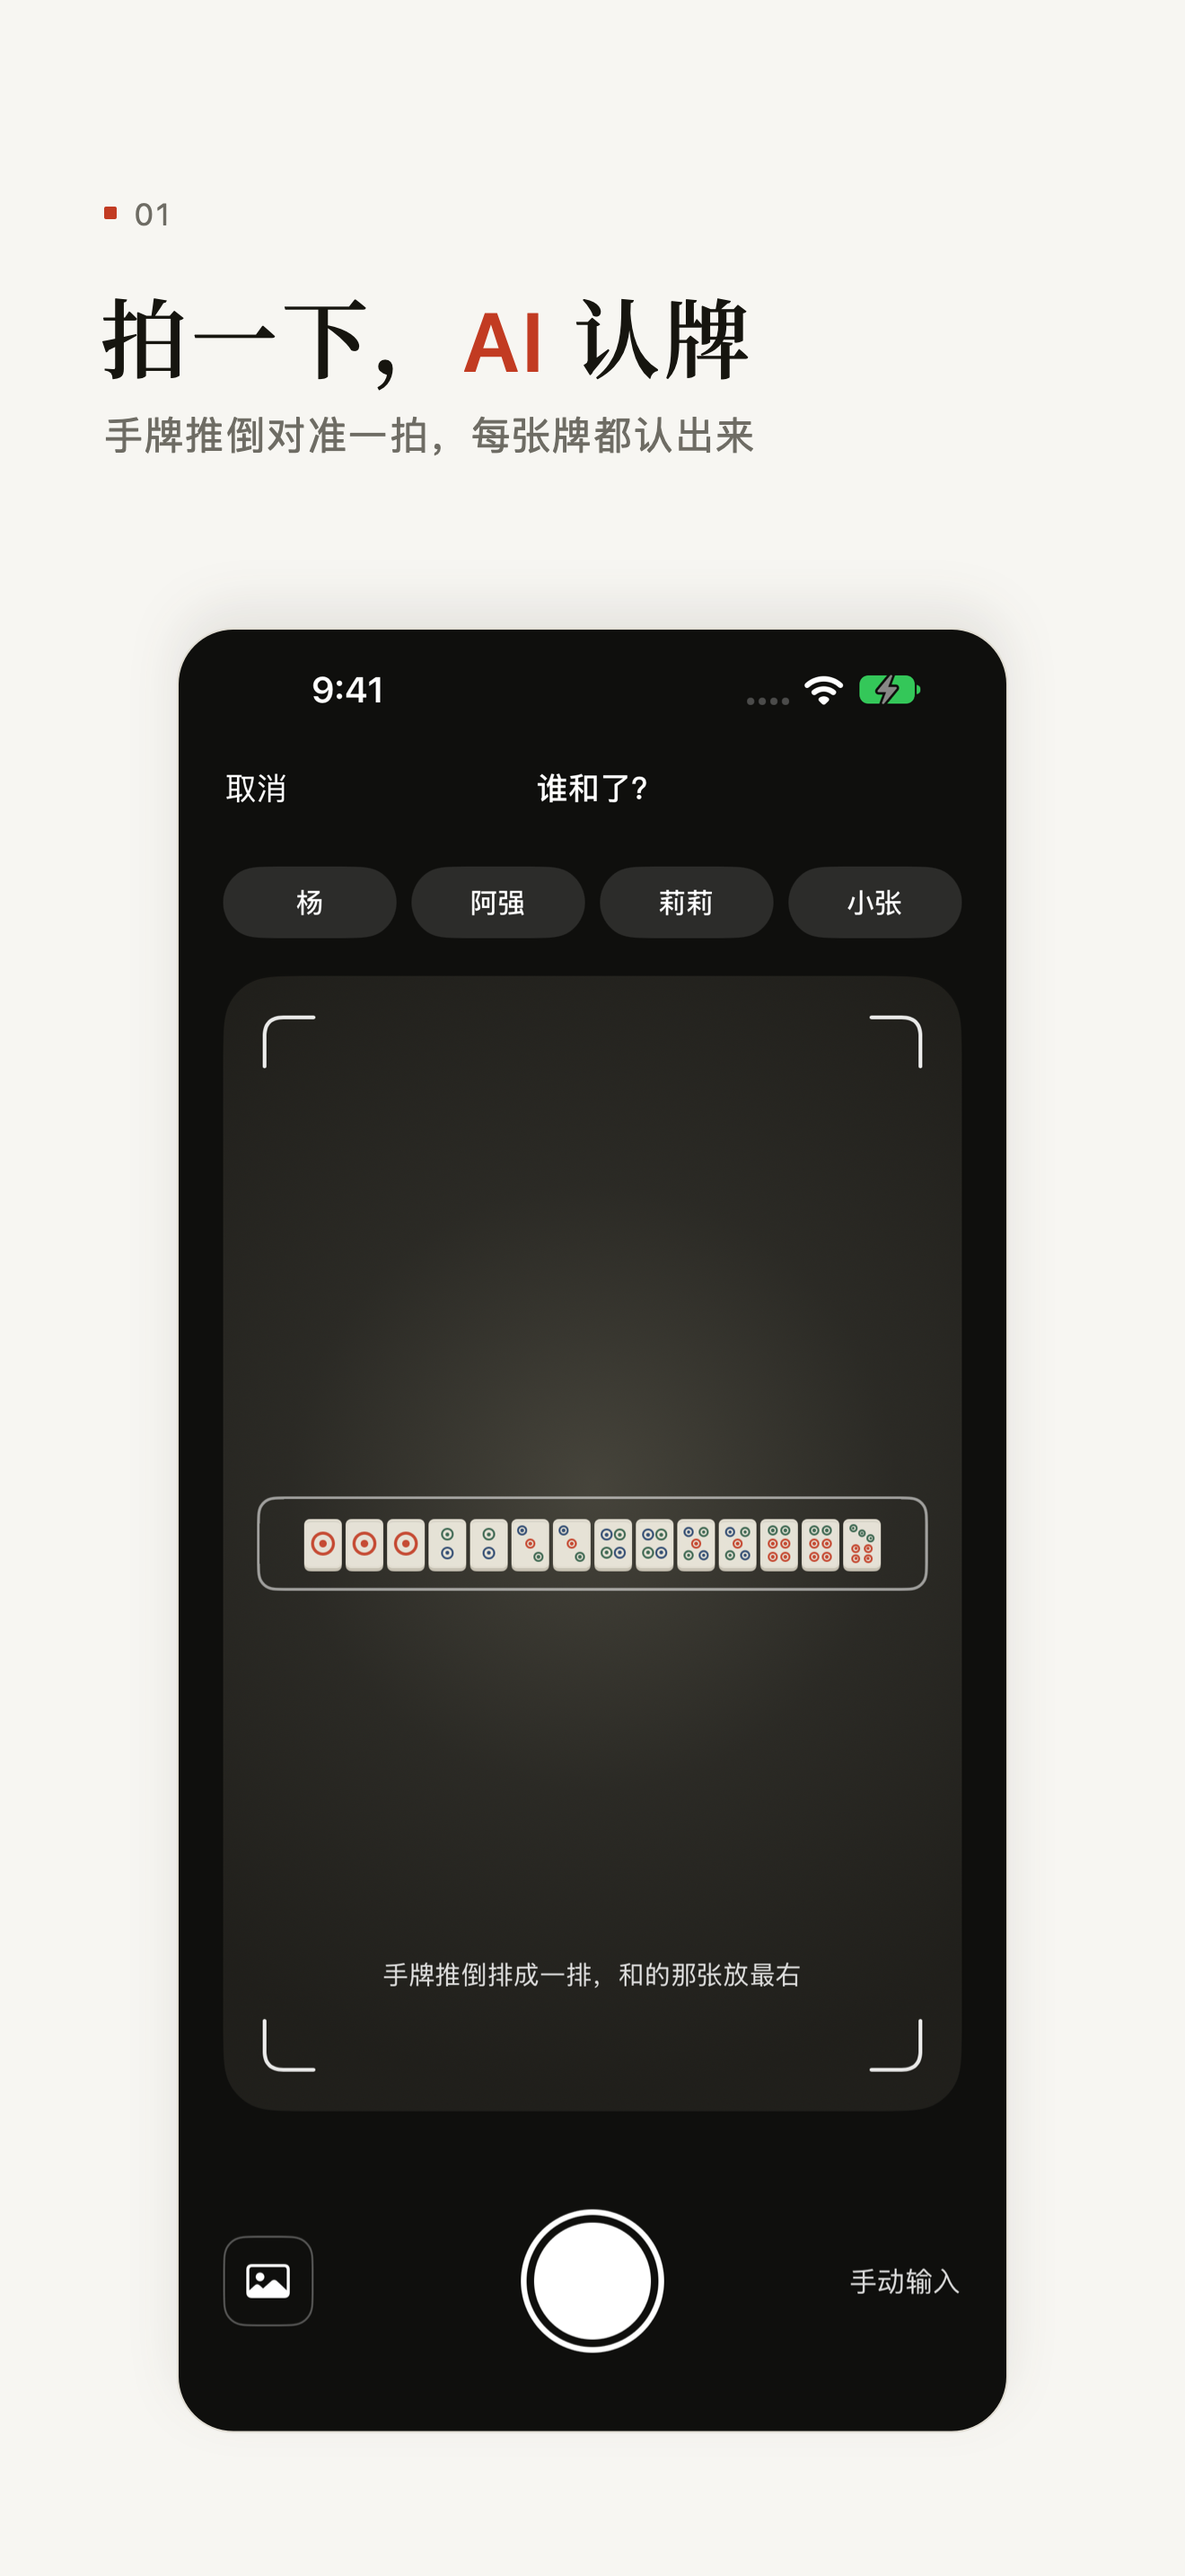
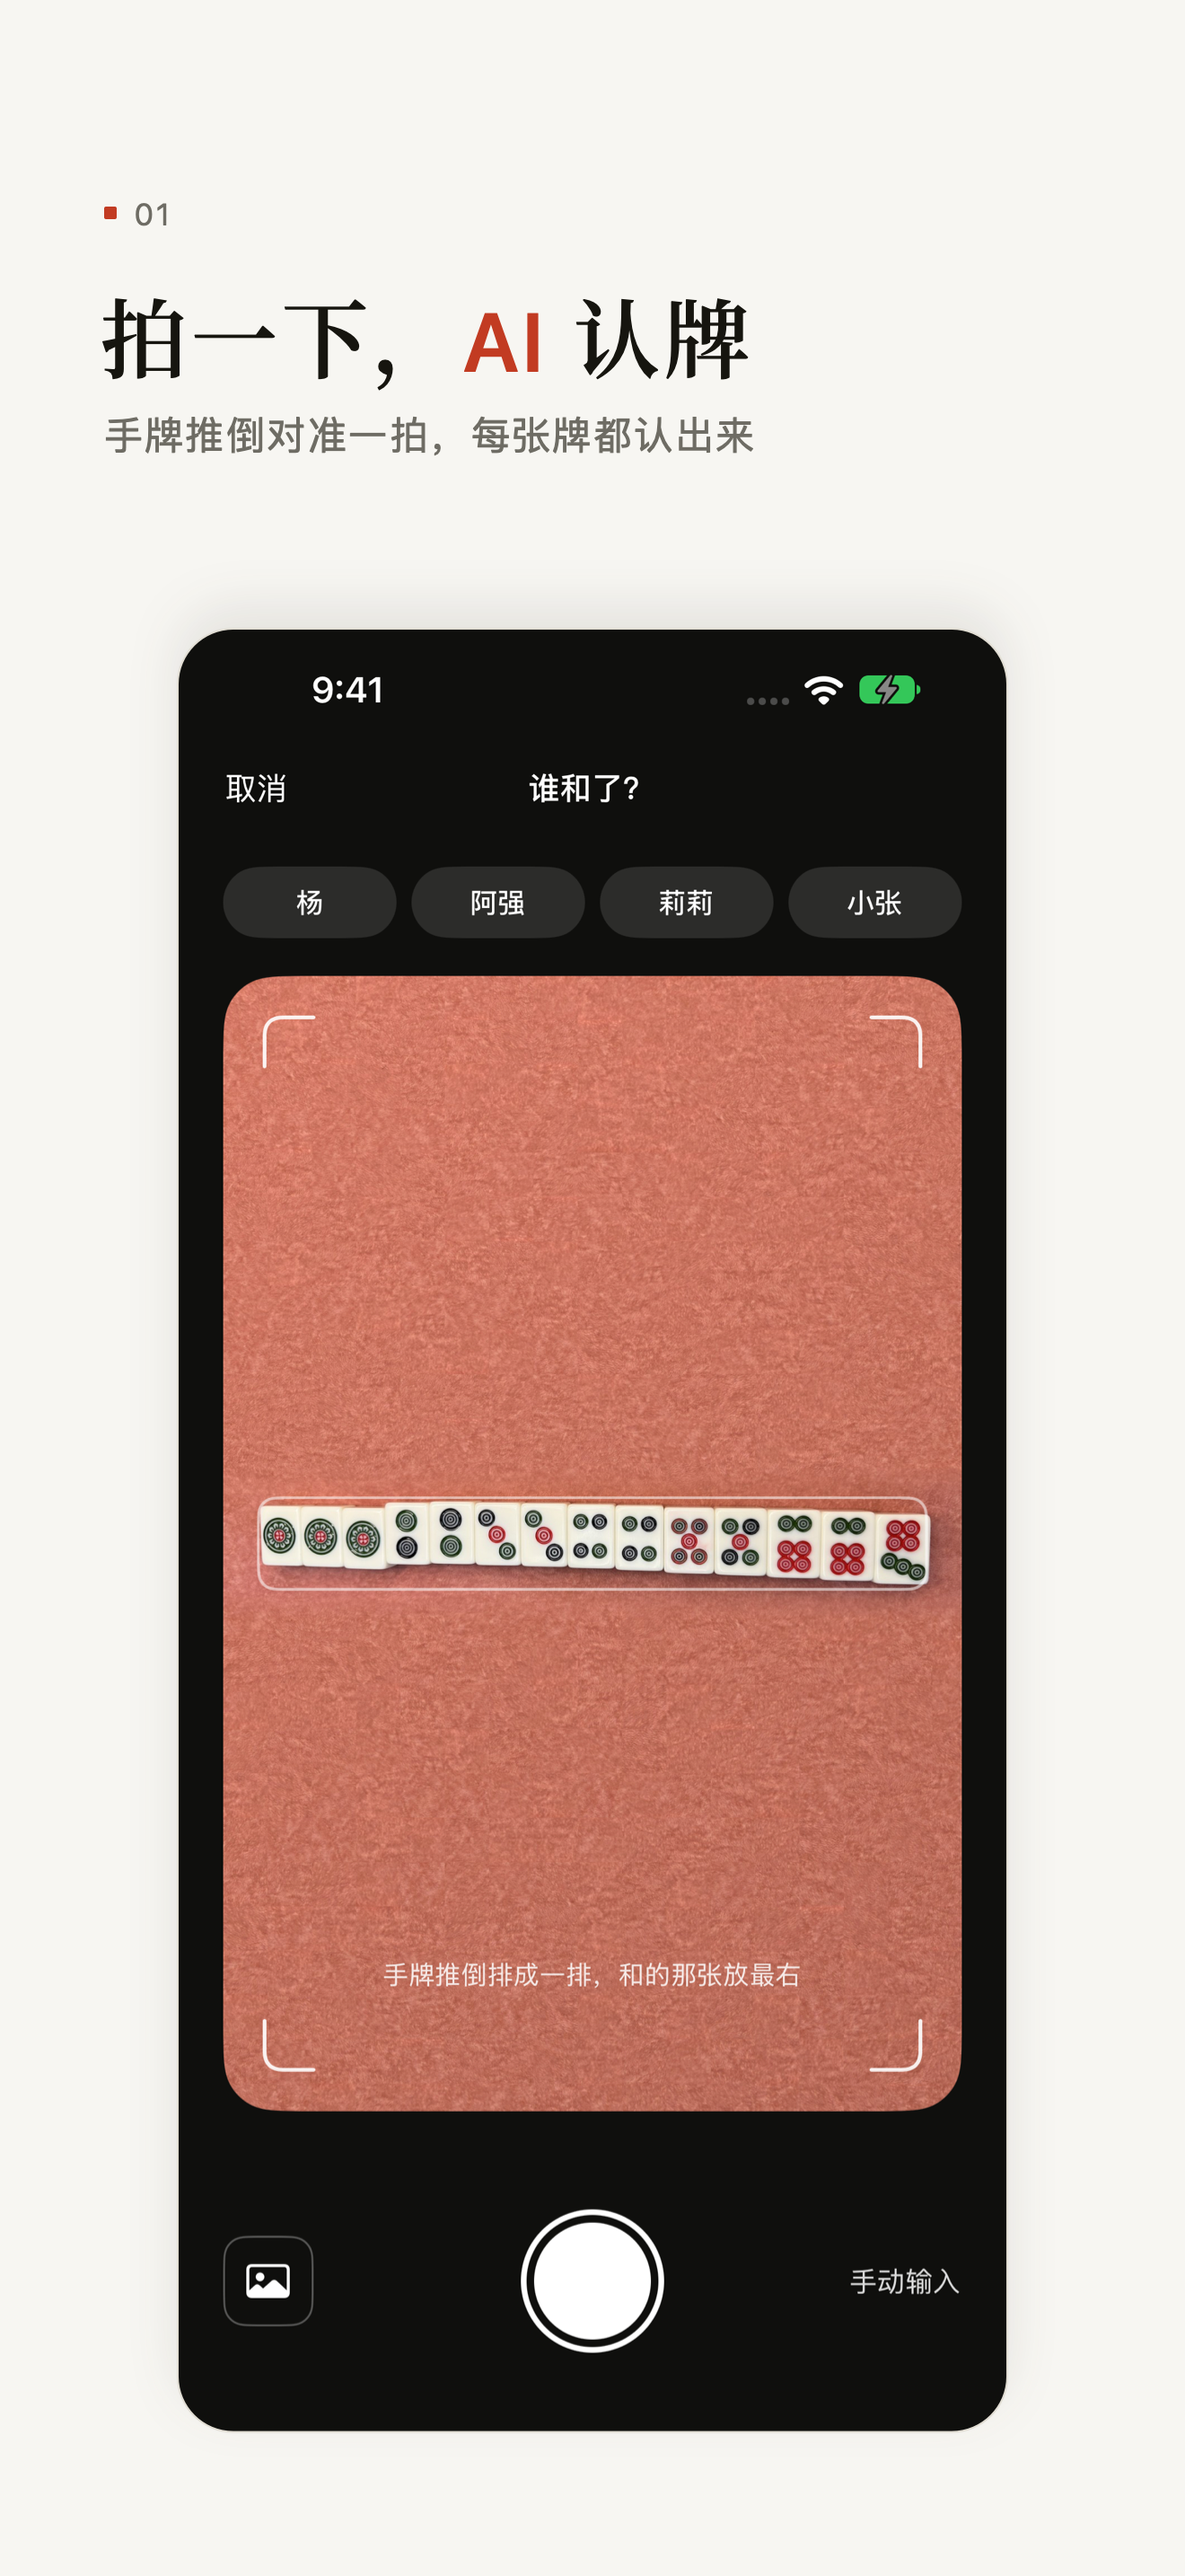
1.0.4 商店截图：6 张重拍（拍、算、记在前，牌桌和结账是「分享」）
- docs/assets/app-store：换成 01-capture … 06-check，去掉 check-reviewing，
  都是 1320×2868，在 808f26d 的开发版上拍。
- 拍照页取景框里是 capture-photo.jpg，这一局页用 tools/hand-shots/demo-photo.jpg。
- README 里的两个图片链接跟着改了编号。

Changed region(s): [[0.1864, 0.3724, 0.8386, 0.8379], [0.4348, 0.2793, 0.528, 0.3103]]

diff --git a/README.md b/README.md
@@ -8,8 +8,8 @@
 
 <p align="center">
   <img src="docs/assets/app-store/01-capture.png" width="200" alt="拍照">
-  <img src="docs/assets/app-store/04-result.png" width="200" alt="算番">
-  <img src="docs/assets/app-store/06-settle.png" width="200" alt="结算">
+  <img src="docs/assets/app-store/02-result.png" width="200" alt="算番">
+  <img src="docs/assets/app-store/04-settle.png" width="200" alt="结算">
 </p>
 
 ## 它做什么
